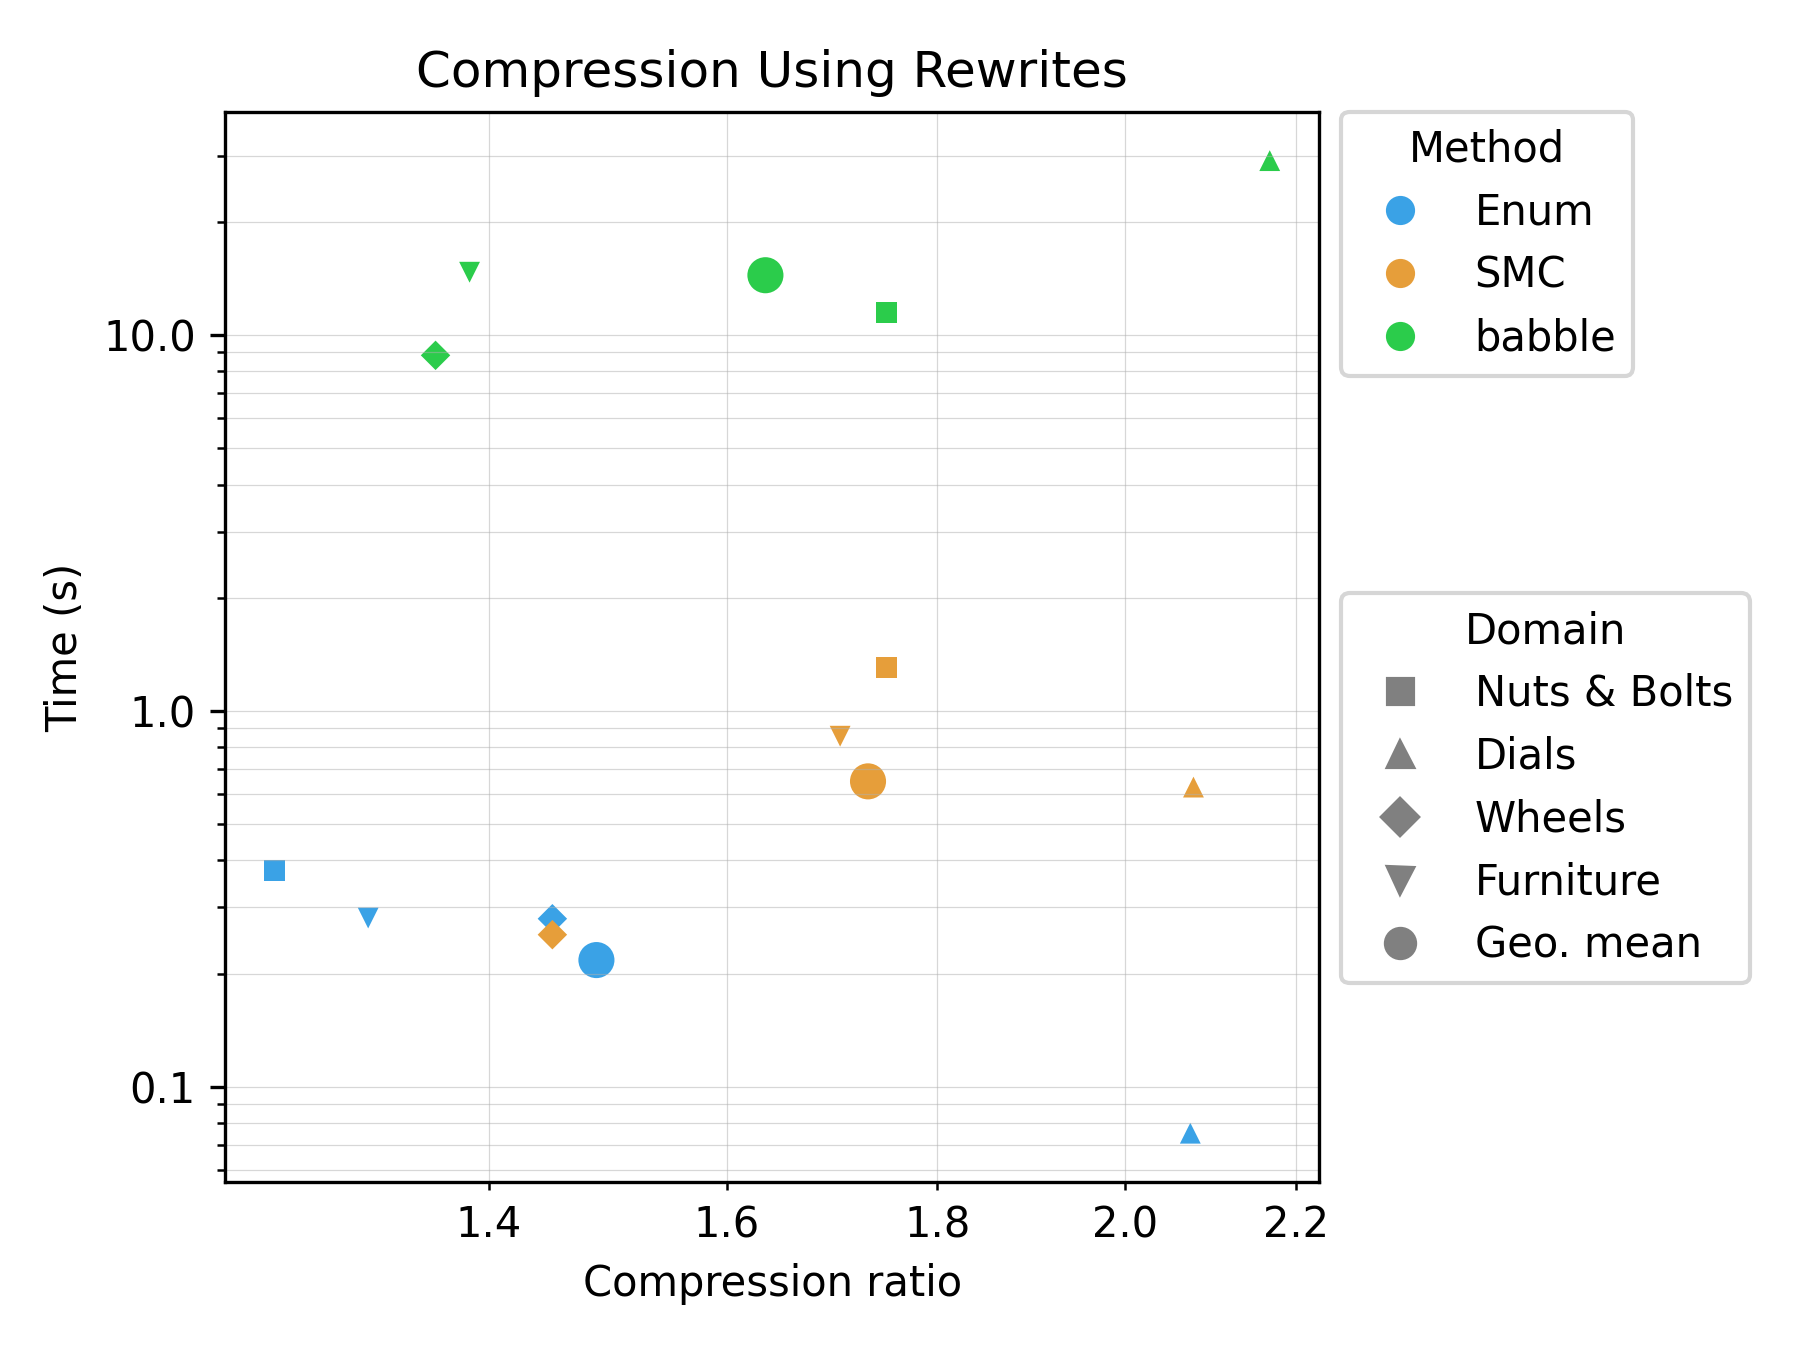
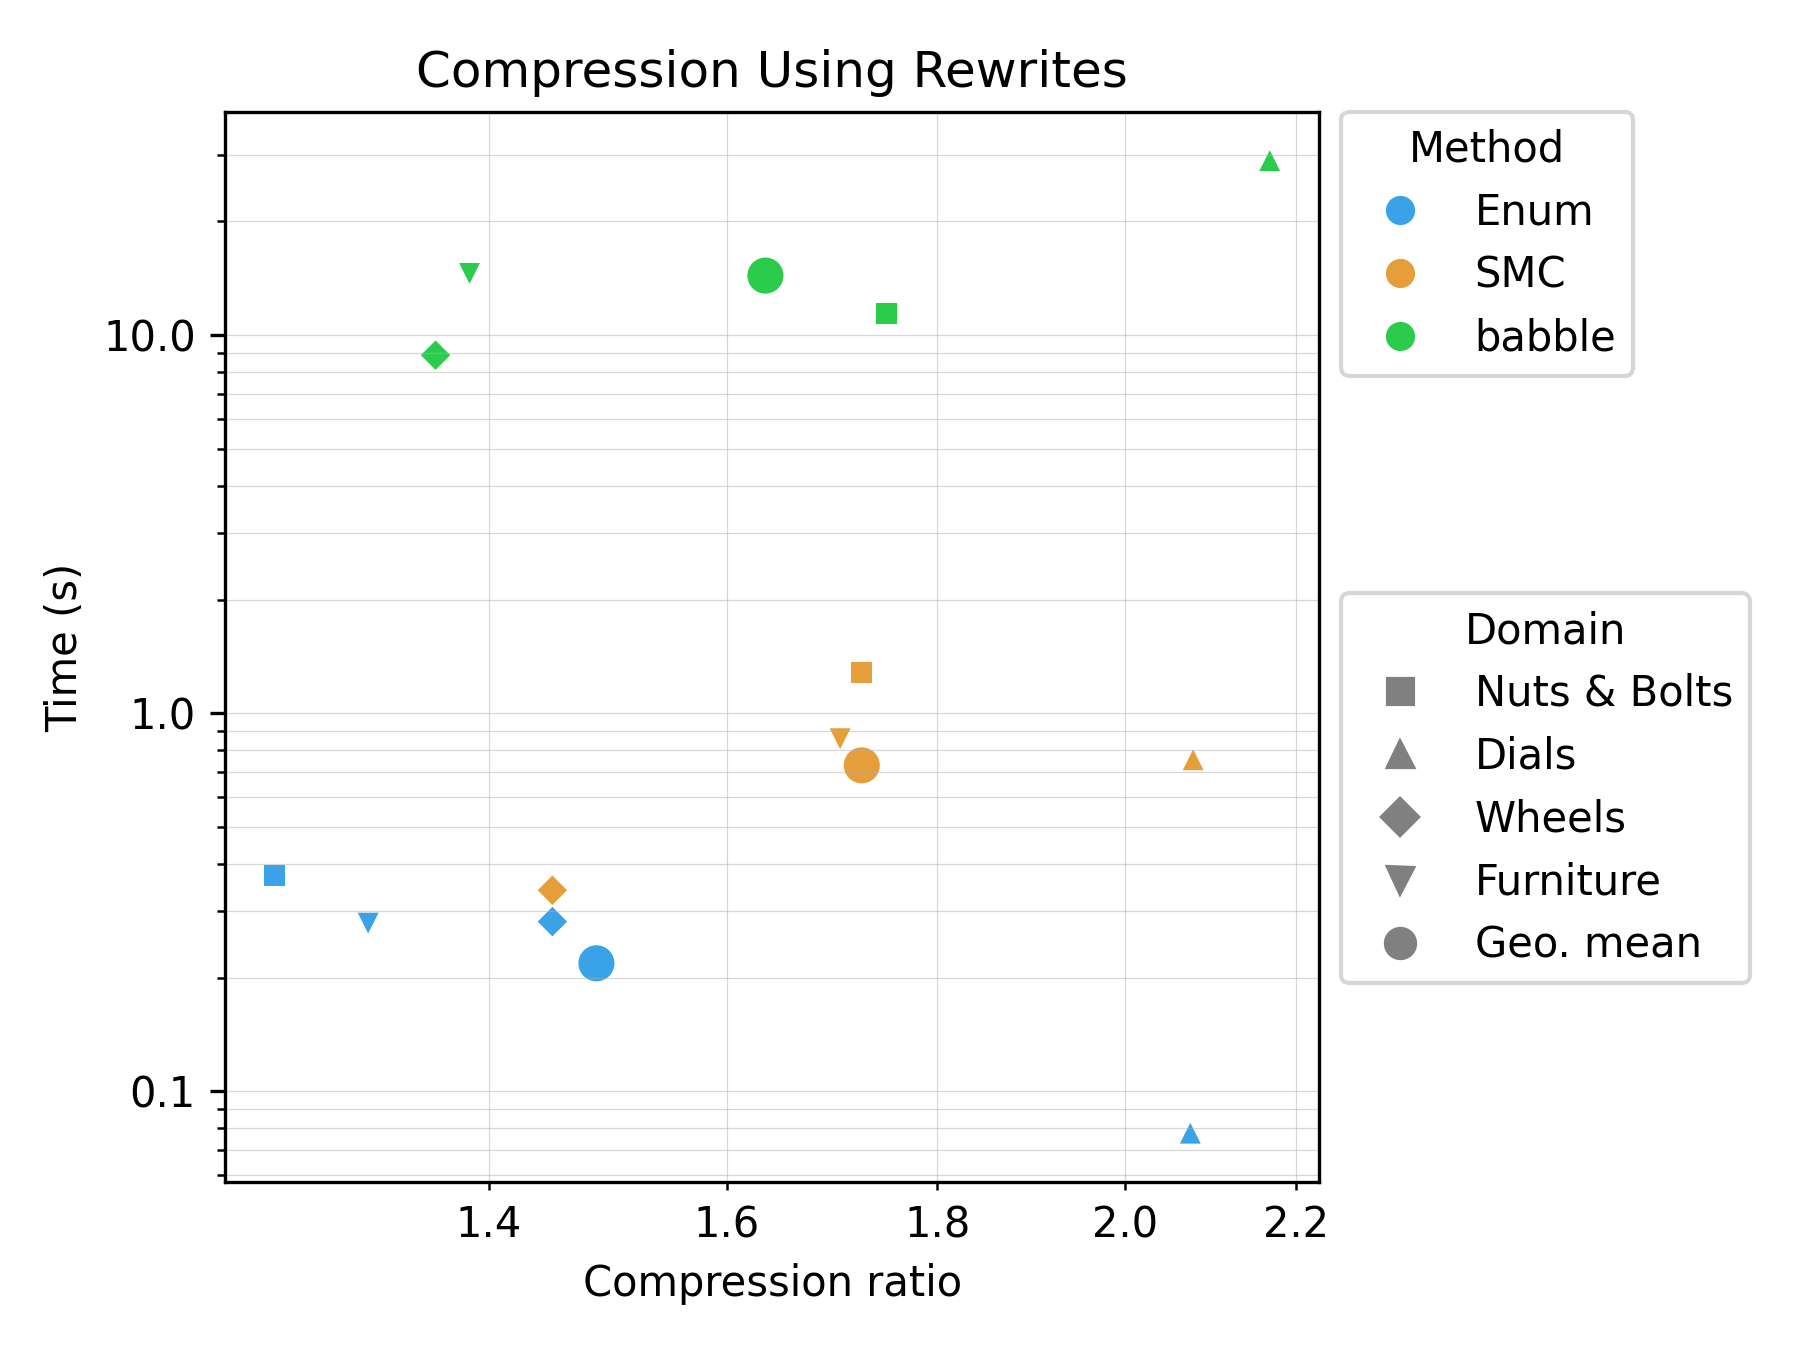
allow disabling 0 arity, put this into the tests (#85)
* allow disabling 0 arity, put this into the tests

* update tables

diff --git a/figures/table3.tex b/figures/table3.tex
@@ -1,4 +1,4 @@
-% source: /home/kavi/mit/egg-stitch/viz/results/table3/2026-04-27_11-13-26/table3.json
+% source: /home/kavi/mit/egg-stitch/viz/results/table3/2026-05-05_11-03-00/table3.json
 % Compression Using Rewrites, Stacked Abstractions: generated from results JSON
 \begin{tabular}{l r r rrrr rrrr}
 \toprule
@@ -6,11 +6,11 @@
 \cmidrule(lr){2-3} \cmidrule(lr){4-7} \cmidrule(lr){8-11}
 Domain & Original & E-graph min & Enum & SMC & babble & Stitch & Enum & SMC & babble & Stitch \\
 \midrule
-Nuts \& Bolts & 19009 & 19267 & 8.62 & \textbf{16.38} & 10.43 & N/A & \textbf{1.462} & 11.425 & 22.387 & N/A \\
-Dials & 35713 & 20884 & 5.61 & \textbf{9.78} & 7.09 & N/A & \textbf{0.826} & 5.537 & 44.281 & N/A \\
-Wheels & 35427 & 30308 & 1.91 & \textbf{8.84} & 6.44 & N/A & \textbf{1.469} & 8.330 & 43.143 & N/A \\
-Furniture & 42936 & 37268 & 3.27 & \textbf{6.91} & 4.56 & N/A & \textbf{3.105} & 13.458 & 60.732 & N/A \\
+Nuts \& Bolts & 19009 & 19296 & 10.28 & \textbf{15.75} & 10.43 & N/A & \textbf{1.495} & 14.082 & 22.263 & N/A \\
+Dials & 35713 & 20846 & 5.27 & \textbf{9.88} & 7.09 & N/A & \textbf{0.982} & 5.739 & 44.000 & N/A \\
+Wheels & 35427 & 30308 & 1.91 & \textbf{8.73} & 6.44 & N/A & \textbf{1.461} & 8.527 & 42.592 & N/A \\
+Furniture & 42936 & 37268 & 3.26 & \textbf{6.92} & 4.56 & N/A & \textbf{3.117} & 13.021 & 61.037 & N/A \\
 \midrule
-Geo. mean &  &  & 4.17 & \textbf{9.95} & 6.82 & N/A & \textbf{1.532} & 9.177 & 40.145 & N/A \\
+Geo. mean &  &  & 4.29 & \textbf{9.85} & 6.82 & N/A & \textbf{1.608} & 9.733 & 39.947 & N/A \\
 \bottomrule
 \end{tabular}

diff --git a/figures/table1.tex b/figures/table1.tex
@@ -1,4 +1,4 @@
-% source: /home/kavi/mit/egg-stitch/viz/results/table1/2026-04-27_10-57-05/table1.json
+% source: /home/kavi/mit/egg-stitch/viz/results/table1/2026-05-05_10-46-39/table1.json
 % Compression Using Rewrites: generated from results JSON
 \begin{tabular}{l r r rrrr rrrr}
 \toprule
@@ -6,11 +6,11 @@
 \cmidrule(lr){2-3} \cmidrule(lr){4-7} \cmidrule(lr){8-11}
 Domain & Original & E-graph min & Enum & SMC & babble & Stitch & Enum & SMC & babble & Stitch \\
 \midrule
-Nuts \& Bolts & 19009 & 19016 & 1.24 & 1.75 & \textbf{1.75} & N/A & \textbf{0.376} & 1.304 & 11.463 & N/A \\
-Dials & 35713 & 20618 & 2.07 & 2.08 & \textbf{2.17} & N/A & \textbf{0.075} & 0.627 & 29.106 & N/A \\
-Wheels & 35427 & 30264 & \textbf{1.45} & \textbf{1.45} & 1.36 & N/A & 0.280 & \textbf{0.254} & 8.828 & N/A \\
-Furniture & 42936 & 37079 & 1.31 & \textbf{1.70} & 1.39 & N/A & \textbf{0.281} & 0.856 & 14.691 & N/A \\
+Nuts \& Bolts & 19009 & 19016 & 1.24 & 1.73 & \textbf{1.75} & N/A & \textbf{0.373} & 1.281 & 11.438 & N/A \\
+Dials & 35713 & 20618 & 2.07 & 2.08 & \textbf{2.17} & N/A & \textbf{0.078} & 0.754 & 28.950 & N/A \\
+Wheels & 35427 & 30264 & \textbf{1.45} & \textbf{1.45} & 1.36 & N/A & \textbf{0.281} & 0.341 & 8.856 & N/A \\
+Furniture & 42936 & 37079 & 1.31 & \textbf{1.70} & 1.39 & N/A & \textbf{0.279} & 0.857 & 14.568 & N/A \\
 \midrule
-Geo. mean &  &  & 1.49 & \textbf{1.73} & 1.63 & N/A & \textbf{0.217} & 0.649 & 14.423 & N/A \\
+Geo. mean &  &  & 1.49 & \textbf{1.73} & 1.63 & N/A & \textbf{0.218} & 0.729 & 14.377 & N/A \\
 \bottomrule
 \end{tabular}

diff --git a/figures/table4.tex b/figures/table4.tex
@@ -1,4 +1,4 @@
-% source: /home/kavi/mit/egg-stitch/viz/results/table4/2026-04-27_11-49-31/table4.json
+% source: /home/kavi/mit/egg-stitch/viz/results/table4/2026-05-05_11-39-31/table4.json
 % Compression Without Rewrites, Stacked Abstractions: generated from results JSON
 \begin{tabular}{l r  rrrr rrrr}
 \toprule
@@ -6,11 +6,11 @@
 \cmidrule(lr){2-2} \cmidrule(lr){3-6} \cmidrule(lr){7-10}
 Domain & Original & Enum & SMC & babble & Stitch & Enum & SMC & babble & Stitch \\
 \midrule
-Nuts \& Bolts & 19009 & 1.68 & 15.16 & 9.11 & \textbf{16.99} & 1.831 & 2.634 & 10.535 & \textbf{0.092} \\
-Dials & 35713 & 4.93 & 6.77 & 5.25 & \textbf{8.87} & 1.358 & 7.497 & 42.295 & \textbf{0.417} \\
-Wheels & 35427 & 1.89 & \textbf{7.09} & 5.47 & 6.61 & 3.794 & 11.607 & 44.417 & \textbf{0.382} \\
-Furniture & 42936 & 3.70 & 6.53 & 4.26 & \textbf{7.00} & 3.415 & 13.554 & 71.307 & \textbf{0.549} \\
+Nuts \& Bolts & 19009 & 1.61 & 15.01 & 9.11 & \textbf{16.99} & 1.513 & 2.747 & 10.452 & \textbf{0.092} \\
+Dials & 35713 & 4.49 & 6.43 & 5.25 & \textbf{8.87} & 1.251 & 7.524 & 42.052 & \textbf{0.423} \\
+Wheels & 35427 & 2.35 & \textbf{6.91} & 5.47 & 6.61 & 3.081 & 11.751 & 44.632 & \textbf{0.379} \\
+Furniture & 42936 & 3.70 & 6.54 & 4.26 & \textbf{7.00} & 3.362 & 13.706 & 70.808 & \textbf{0.547} \\
 \midrule
-Geo. mean &  & 2.76 & 8.30 & 5.78 & \textbf{9.14} & 2.382 & 7.466 & 34.467 & \textbf{0.299} \\
+Geo. mean &  & 2.81 & 8.12 & 5.78 & \textbf{9.14} & 2.104 & 7.596 & 34.331 & \textbf{0.300} \\
 \bottomrule
 \end{tabular}

diff --git a/figures/table2.tex b/figures/table2.tex
@@ -1,4 +1,4 @@
-% source: /home/kavi/mit/egg-stitch/viz/results/table2/2026-04-27_11-08-28/table2.json
+% source: /home/kavi/mit/egg-stitch/viz/results/table2/2026-05-05_10-58-02/table2.json
 % Compression Without Rewrites: generated from results JSON
 \begin{tabular}{l r  rrrr rrrr}
 \toprule
@@ -6,11 +6,11 @@
 \cmidrule(lr){2-2} \cmidrule(lr){3-6} \cmidrule(lr){7-10}
 Domain & Original & Enum & SMC & babble & Stitch & Enum & SMC & babble & Stitch \\
 \midrule
-Nuts \& Bolts & 19009 & 1.29 & 1.59 & 1.67 & \textbf{1.78} & 0.068 & 0.280 & 2.029 & \textbf{0.043} \\
-Dials & 35713 & 1.22 & 1.23 & 1.26 & \textbf{1.27} & 0.111 & 0.509 & 7.784 & \textbf{0.108} \\
-Wheels & 35427 & 1.22 & 1.24 & 1.14 & \textbf{1.24} & 0.293 & 0.289 & 4.627 & \textbf{0.110} \\
-Furniture & 42936 & 1.04 & 1.38 & 1.22 & \textbf{1.38} & 0.341 & 1.102 & 11.378 & \textbf{0.151} \\
+Nuts \& Bolts & 19009 & 1.29 & 1.63 & 1.67 & \textbf{1.78} & 0.069 & 0.293 & 2.049 & \textbf{0.044} \\
+Dials & 35713 & 1.22 & 1.23 & 1.26 & \textbf{1.27} & 0.111 & 0.520 & 7.795 & \textbf{0.108} \\
+Wheels & 35427 & 1.22 & 1.24 & 1.14 & \textbf{1.24} & 0.289 & 0.234 & 4.631 & \textbf{0.109} \\
+Furniture & 42936 & 1.04 & 1.38 & 1.22 & \textbf{1.38} & 0.338 & 1.103 & 11.395 & \textbf{0.148} \\
 \midrule
-Geo. mean &  & 1.19 & 1.35 & 1.31 & \textbf{1.40} & 0.166 & 0.462 & 5.370 & \textbf{0.094} \\
+Geo. mean &  & 1.19 & 1.36 & 1.31 & \textbf{1.40} & 0.166 & 0.445 & 5.388 & \textbf{0.094} \\
 \bottomrule
 \end{tabular}

diff --git a/src/smc.rs b/src/smc.rs
@@ -49,6 +49,7 @@ pub fn smc<F: LanguageFamily, O: StitchOp>(egraph: StitchEgraph<F::Apply<O>>, ro
     let temperature = args.temperature;
     let dead_runs = args.dead_runs;
     let max_arity = args.max_arity;
+    let no_zero_arity = args.no_zero_arity;
     let verbose = args.verbose;
 
     let mut best_so_far: Option<(usize, SearchState<F, O>)> = None;
@@ -82,7 +83,8 @@ pub fn smc<F: LanguageFamily, O: StitchOp>(egraph: StitchEgraph<F::Apply<O>>, ro
 
         for (i, cost) in costs.iter().enumerate() {
             let cost_to_beat: usize = best_so_far.as_ref().map_or(original_size, |best| best.0);
-            if expanded[i].pattern.vars.len() <= max_arity && *cost < cost_to_beat {
+            let arity = expanded[i].pattern.vars.len();
+            if arity <= max_arity && !(no_zero_arity && arity == 0) && *cost < cost_to_beat {
                 println!("{} {} {}", format!("[iteration {}]", step).yellow().bold(), format!("new best: {}", cost).green().bold(), expanded[i].pattern.to_string().cyan());
                 best_so_far = Some((*cost, expanded[i].clone()));
                 best_found_at = Some(step);

diff --git a/expts/table1.py b/expts/table1.py
@@ -77,7 +77,7 @@ def table1(
             print(f"  run {i+1}/{num_runs}", flush=True)
             stackpathpush(f"rep{i}")
             with subgroup("best-first"):
-                enum_res, egraph_min = run_ours(domain, "best-first", num_steps=enum_num_steps, num_abstractions=num_abstractions, rebuild_egraph=rebuild_egraph, max_arity=max_arity)
+                enum_res, egraph_min = run_ours(domain, "best-first", num_steps=enum_num_steps, num_abstractions=num_abstractions, rebuild_egraph=rebuild_egraph, max_arity=max_arity, no_zero_arity=True)
             with subgroup("smc"):
                 smc_res, _ = run_ours(
                     domain, "smc",
@@ -87,6 +87,7 @@ def table1(
                     num_abstractions=num_abstractions,
                     rebuild_egraph=rebuild_egraph,
                     max_arity=max_arity,
+                    no_zero_arity=True
                 )
             with subgroup("babble"):
                 babble_res = run_babble(domain, dsr=rewrites_path(domain), num_abstractions=num_abstractions, max_arity=max_arity)

diff --git a/expts/table2.py b/expts/table2.py
@@ -69,7 +69,7 @@ def table2(
             print(f"  run {i+1}/{num_runs}", flush=True)
             stackpathpush(f"rep{i}")
             with subgroup("best-first"):
-                enum_res, _ = run_ours(domain, "best-first", num_steps=enum_num_steps, rewrites=None, num_abstractions=num_abstractions, rebuild_egraph=rebuild_egraph, max_arity=max_arity)
+                enum_res, _ = run_ours(domain, "best-first", num_steps=enum_num_steps, rewrites=None, num_abstractions=num_abstractions, rebuild_egraph=rebuild_egraph, max_arity=max_arity, no_zero_arity=True)
             with subgroup("smc"):
                 smc_res, _ = run_ours(
                     domain, "smc",
@@ -80,6 +80,7 @@ def table2(
                     num_abstractions=num_abstractions,
                     rebuild_egraph=rebuild_egraph,
                     max_arity=max_arity,
+                    no_zero_arity=True
                 )
             with subgroup("babble"):
                 babble_res = run_babble(domain, num_abstractions=num_abstractions, max_arity=max_arity)

diff --git a/src/best_first.rs b/src/best_first.rs
@@ -114,6 +114,7 @@ pub fn best_first<F: LanguageFamily, O: StitchOp>(egraph: StitchEgraph<F::Apply<
         panic!("best-first search requires at least one of --num-steps or --time-limit");
     }
     let max_arity = args.max_arity;
+    let no_zero_arity = args.no_zero_arity;
     let debug = args.debug_log;
     let strategy = args.priority;
 
@@ -211,7 +212,8 @@ pub fn best_first<F: LanguageFamily, O: StitchOp>(egraph: StitchEgraph<F::Apply<
             let child_id = nodes.len();
 
             let cost_to_beat = best.as_ref().map_or(original_size, |(c, _)| *c);
-            if child_state.pattern.vars.len() <= max_arity && child_cost < cost_to_beat {
+            let arity = child_state.pattern.vars.len();
+            if child_state.pattern.vars.len() <= max_arity && child_cost < cost_to_beat && !(no_zero_arity && arity == 0) {
                 let elapsed = search_start.elapsed().as_secs_f64();
                 println!(
                     "{} {} {} {}",

diff --git a/src/lib.rs b/src/lib.rs
@@ -76,6 +76,10 @@ pub struct Args {
     #[arg(long, default_value_t = 1000)]
     pub max_arity: usize,
 
+    /// Disallow zero-arity abstractions (patterns with no metavariables).
+    #[arg(long, default_value_t = false)]
+    pub no_zero_arity: bool,
+
     /// Heap priority for best-first search (only used when --search=best-first).
     #[arg(long, value_enum, default_value_t = SearchPriority::Cost)]
     pub priority: SearchPriority,
